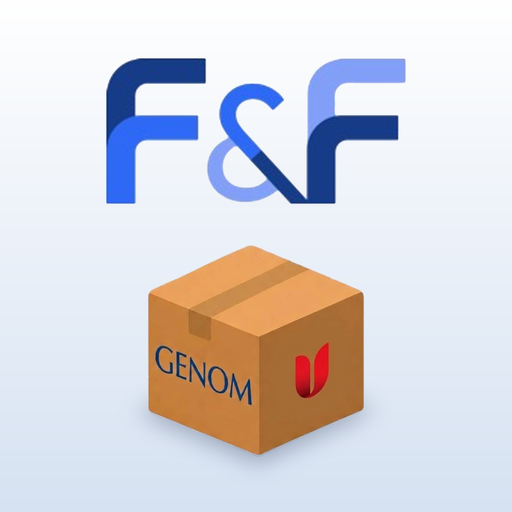
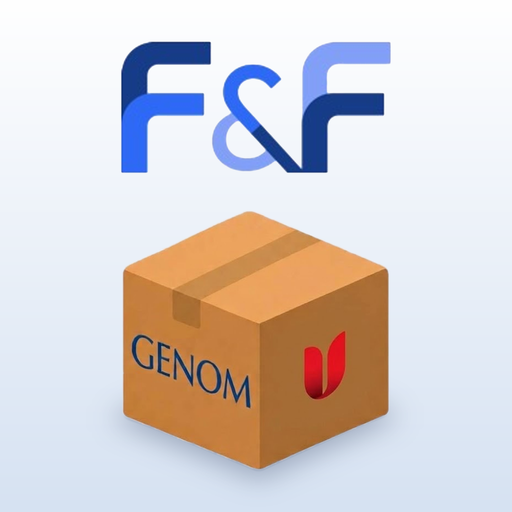
Ícone: caixa maior
Claude-Session: https://claude.ai/code/session_01CZFmzCaMnCg1pR5pQDsF27

Changed region(s): [[0.1875, 0.0625, 0.8125, 0.9375]]

diff --git a/index.html b/index.html
@@ -9,9 +9,9 @@
 <meta name="apple-mobile-web-app-capable" content="yes">
 <meta name="apple-mobile-web-app-status-bar-style" content="default">
 <meta name="apple-mobile-web-app-title" content="Estoque FFSP">
-<link rel="manifest" href="manifest.json?v=11">
-<link rel="apple-touch-icon" href="icon-180.png?v=11">
-<link rel="icon" href="icon-192.png?v=11">
+<link rel="manifest" href="manifest.json?v=12">
+<link rel="apple-touch-icon" href="icon-180.png?v=12">
+<link rel="icon" href="icon-192.png?v=12">
 <link rel="stylesheet" href="styles.css">
 <script src="https://cdn.jsdelivr.net/npm/xlsx@0.18.5/dist/xlsx.full.min.js" defer></script>
 </head>

diff --git a/sw.js b/sw.js
@@ -1,5 +1,5 @@
 // Service worker: notificações com o app fechado + funcionamento básico offline
-const CACHE = "estoque-v25";
+const CACHE = "estoque-v26";
 const ARQUIVOS = ["./", "./index.html", "./app.js", "./styles.css", "./config.js", "./manifest.json", "./icon-192.png"];
 
 self.addEventListener("install", (e) => {
